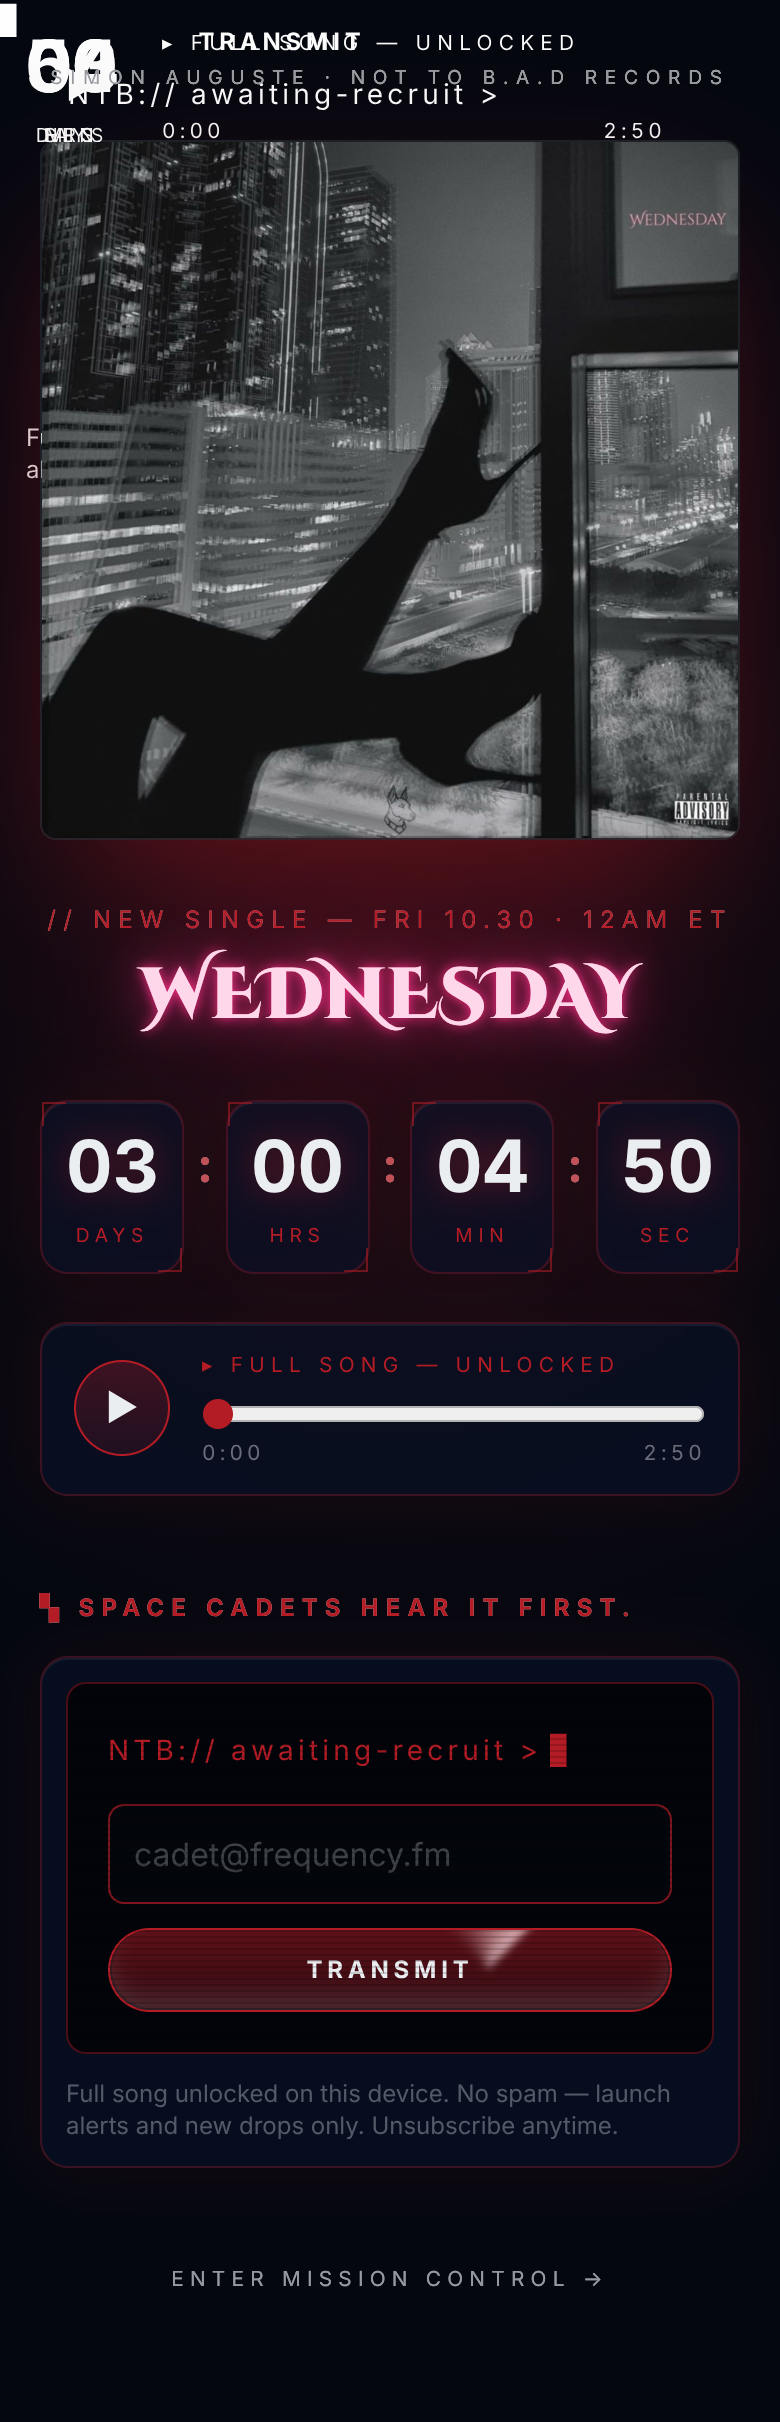
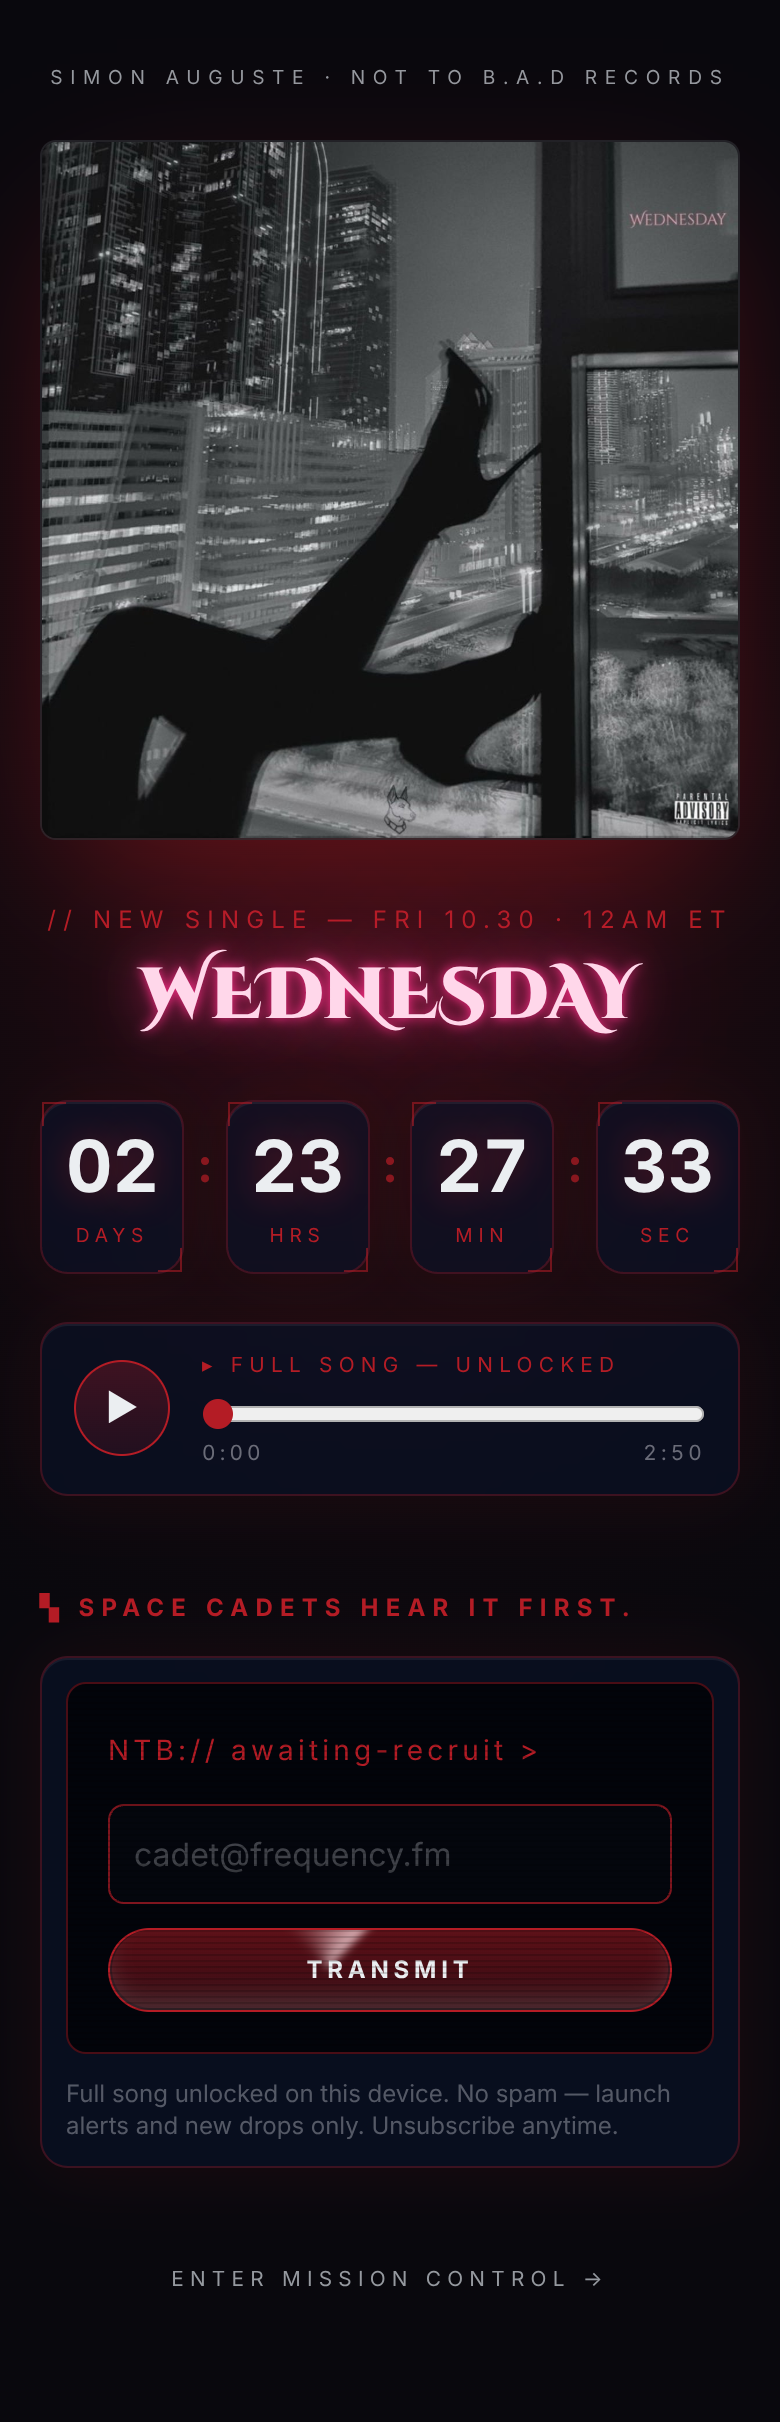
Fix ghost text in the top-left of /wednesday on desktop Chrome
The custom @utility text-chrome (a clip-to-text metal gradient) shared its
name with the --color-chrome colour utility, so every page wrapper using
text-chrome also got background-clip: text. Desktop Chrome on Windows then
painted that gradient through the text of the blurred / animated panels
(countdown, player, signup) at the viewport's top-left corner.

- rename the gradient utility to text-chrome-metal (unused for now), so
  text-chrome is the plain #ebeef1 colour it already rendered as
- the page wrappers' bg-obsidian now applies as intended
- verify: new check that nothing around the panels clips its background
  to text (46/46)

Claude-Session: https://claude.ai/code/session_01Rrcimrpdp7kN4KAnmkAEdM

diff --git a/app/globals.css b/app/globals.css
@@ -283,8 +283,13 @@
 }
 
 /* Chrome gradient for the label wordmark — steel through white and back,
-   so the type reads as brushed metal rather than flat grey. */
-@utility text-chrome {
+   so the type reads as brushed metal rather than flat grey.
+   Named text-chrome-metal, not text-chrome: --color-chrome already makes
+   text-chrome the plain #ebeef1 colour, and sharing the name put this
+   clip-to-text gradient on every page wrapper. Desktop Chrome then painted
+   it through the text of blurred/animated panels at the top-left corner
+   (ghost text on /wednesday). Use it on a single line of type only. */
+@utility text-chrome-metal {
   background: linear-gradient(
     180deg,
     #ffffff 0%,
